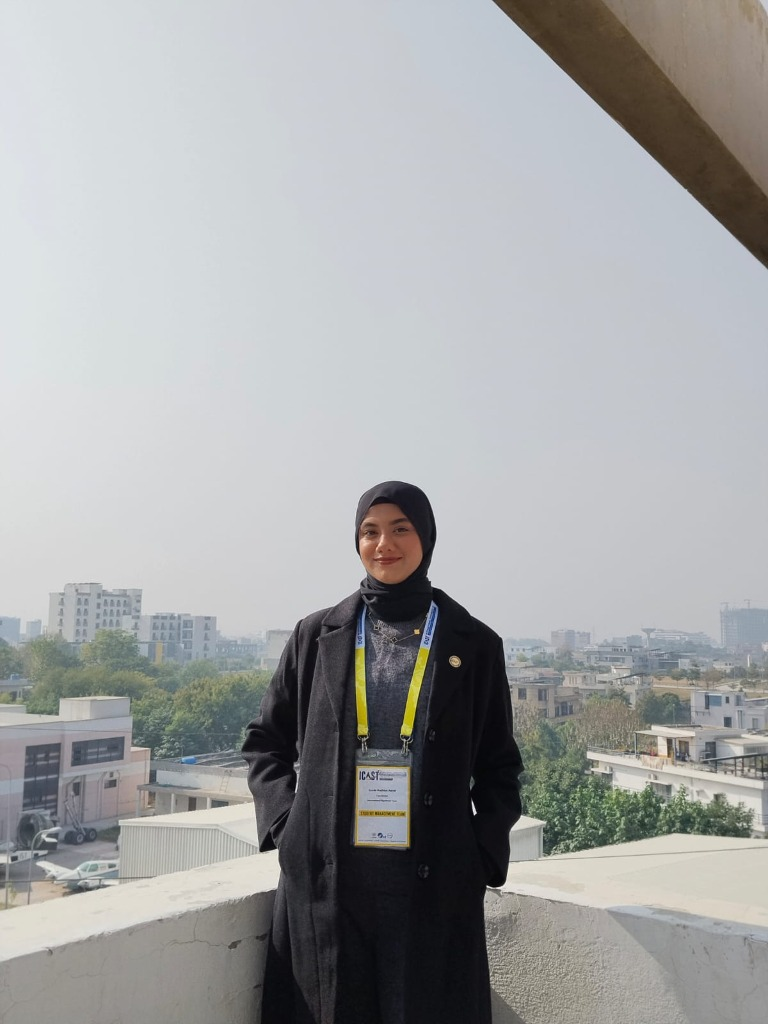
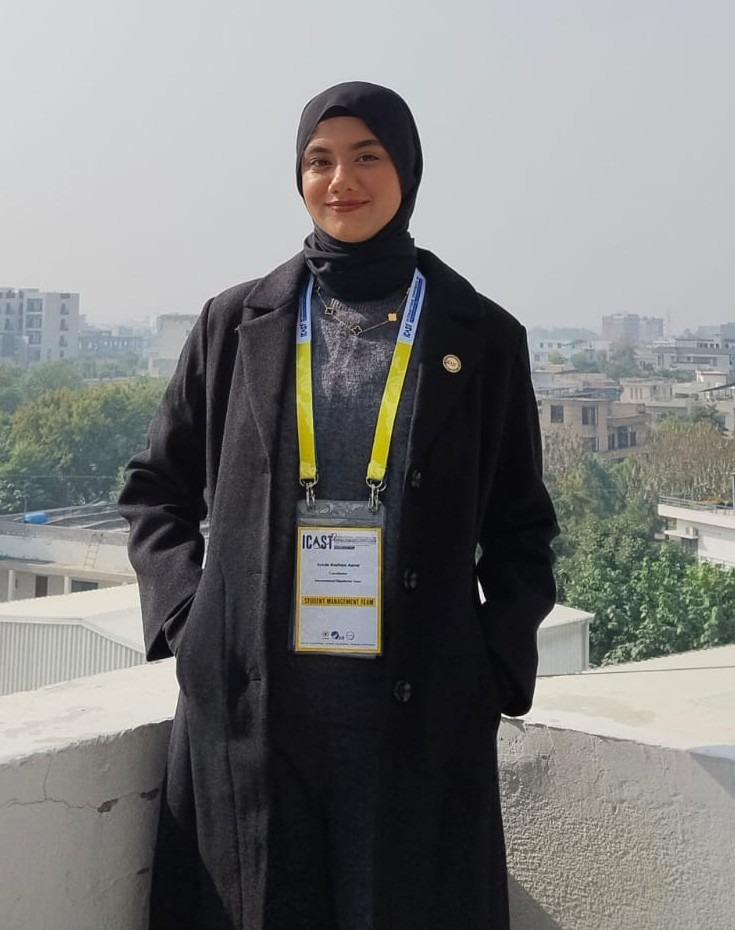
Update team photos for Radhiya, Saani, and Simra on Credits page

diff --git a/pvao-frontend/src/pages/credits/data/contributors.data.js b/pvao-frontend/src/pages/credits/data/contributors.data.js
@@ -9,6 +9,7 @@ import simraImg from '../../../assets/images/team/simra.jpg';
 import fatimaImg from '../../../assets/images/team/fatima.jpg';
 import amnaImg from '../../../assets/images/team/amna.jpg';
 import tehreemImg from '../../../assets/images/team/tehreem.jpg';
+import saaniImg from '../../../assets/images/team/saani.jpg';
 
 export const contributors = [
   {
@@ -89,6 +90,7 @@ export const contributors = [
     role: 'Intern',
     title: 'Research Intern',
     institution: 'Institute of Space Technology',
-    description: 'Researched and built the Earth View module, while also driving key foundational research for Exora.'
+    description: 'Researched and built the Earth View module, while also driving key foundational research for Exora.',
+    image: saaniImg
   }
 ];
